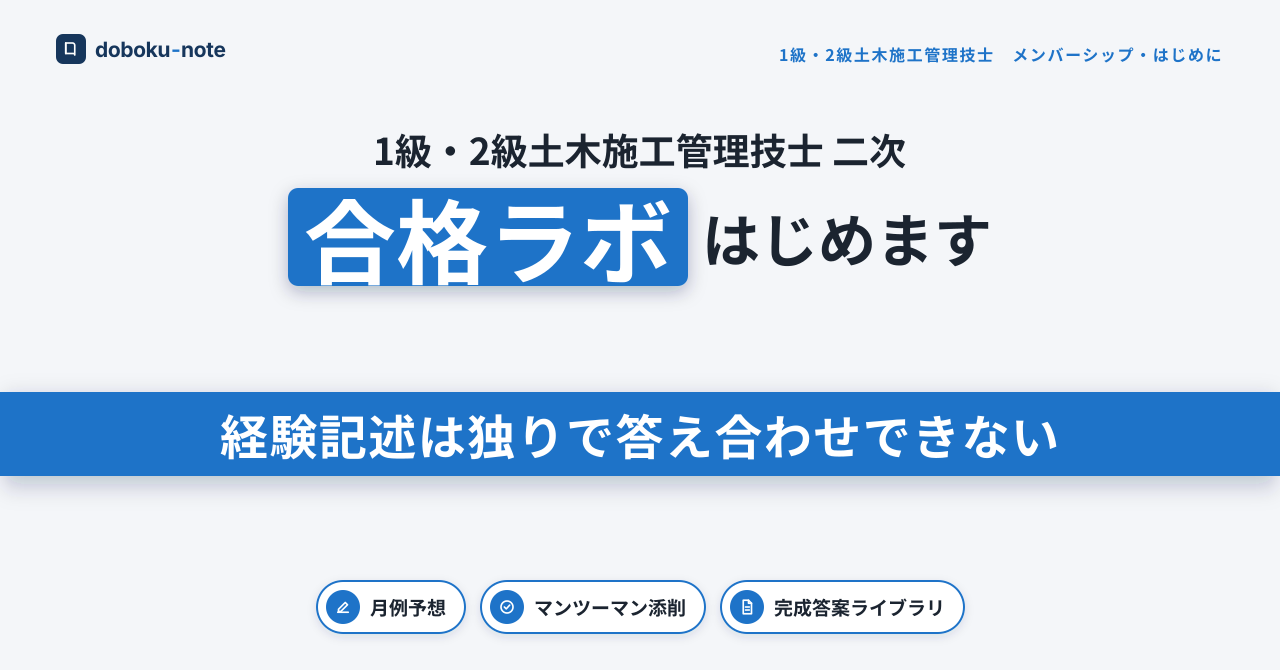
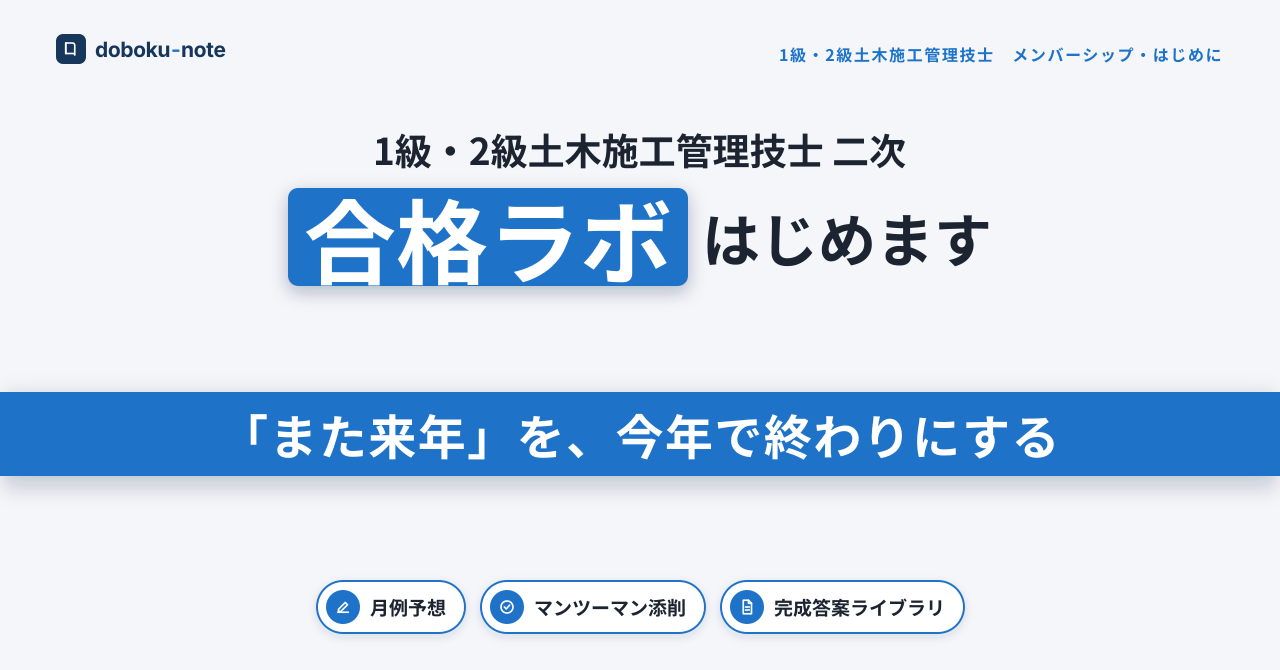
feat(note): 合格ラボ はじめに記事を強化（受験料/再受験アンカー＋競合差別化）
薄い一般論版を、webリサーチ(受験料¥12,000・二次年1回・1級合格率4-5割・
競合は単発添削/代筆が主流)を踏まえ再構成。訴求軸を「もう一度、受験料と1年を
払いたくない人へ」に。代筆しない=あなたの答案を合格水準へ、で差別化。
カバーbannerも「また来年を今年で終わりにする」へ。1662字。

Changed region(s): [[0.1562, 0.597, 0.8438, 0.6866]]

diff --git a/docs/note/1級・2級土木/メンバーシップ/はじめに-合格ラボ/article.md b/docs/note/1級・2級土木/メンバーシップ/はじめに-合格ラボ/article.md
@@ -10,54 +10,59 @@ cover:
   leadIn: "1級・2級土木施工管理技士 二次"
   hi: "合格ラボ"
   hiSuffix: "はじめます"
-  banner: "経験記述は独りで答え合わせできない"
+  banner: "「また来年」を、今年で終わりにする"
   meta: "メンバーシップ・はじめに"
   chips:
     - { icon: edit, text: "月例予想" }
     - { icon: check, text: "マンツーマン添削" }
     - { icon: doc, text: "完成答案ライブラリ" }
 ---
-# 「土木セコカン合格ラボ」をはじめます｜経験記述は"独りで答え合わせできない"試験だから
+# 「土木セコカン合格ラボ」をはじめます｜もう一度、受験料と1年を払いたくないあなたへ
 
 はじめまして。「架（かける）」と申します。
 
-地方自治体の土木職（発注者）として、道路や河川など公共インフラの計画・設計・発注・工事監督を横断的に担い、退職しました。在職中から、1級土木施工管理技士や技術士（建設部門・総合技術監理部門）などを取得しています。
+地方自治体の土木職（発注者）として、道路や河川など公共インフラの計画・設計・発注・工事監督を横断的に担い、退職しました。在職中に、1級土木施工管理技士や技術士（建設部門・総合技術監理部門）などを取得しています。
 
-この note で、1級・2級土木施工管理技士の受験者に向けた会員制ラボ **「土木セコカン合格ラボ」** をはじめます。
+この note で、1級・2級土木施工管理技士の受験者に向けた会員制ラボ **「土木セコカン合格ラボ」** をはじめます。なぜはじめるのか、どんな場にしたいのかを、少しだけお話しさせてください。
 
-この記事では、なぜはじめるのか、どんな場にしたいのかをお話しさせてください。
+## 「経験記述で落ちる」ということ
 
-## なぜ「合格ラボ」なのか
+第二次検定は、年に1回しかありません。1級なら次は令和8年10月4日。そこで経験記述（問題1）を落とせば、次のチャンスは丸1年先です。
 
-施工経験記述（第2次検定 問題1）は、少し特殊な試験です。
+再受験には、受験手数料がまた12,000円かかります。けれど本当に痛いのは、お金よりも「もう1年」のほう。同じ不安を抱えて勉強をやり直し、資格手当も、昇進も、現場での立場も、1年先送りになります。
 
-過去問の模範解答を読んでも、いざ自分の現場で書くと「これで受かるのか」が自分では判定できない。択一のように正解と照合できないからです。
+1級の合格率は、ここ数年おおむね4〜5割。裏を返せば、**半数近くの人が「また来年」を経験している**ということです。
 
-誰かに見てもらわないと、独学では手応えがつかめない——ここが経験記述の最大の壁です。
+## なぜ独学だと、ここで詰まるのか
 
-私は発注者として、たくさんの技術者が書いた書類を「評価する側」で見てきました。どこで加点され、どこで減点されるか。その **採点者視点** を、これから受験に向かうあなたへ架け渡したい。
+学科試験は、正解と照合すれば答え合わせができます。でも経験記述は、模範解答を読んでも「自分のこの答案で受かるのか」を、**自分一人では判定できない**。
 
-それが、このラボをはじめる理由です。
+合格者も指導者も口を揃えて言うのは、「経験記述こそ、客観的な添削が要る」ということ。書けた"つもり"と、採点者に伝わる答案のあいだには、いつも溝があります。
+
+私は発注者として、技術者が書いた書類を「評価する側」で数多く見てきました。どこで加点され、どこで減点されるか。その **採点者視点** を、あなたの答案に架け渡したい——それが、このラボをはじめる理由です。
+
+## 「代筆」ではなく、「あなたの答案を合格水準へ」
+
+世の中には、経験記述を代わりに書く"代行"サービスもあります。でも、それはこのラボの方針ではありません。
+
+**書くのは、あなた自身です。** 私はその答案を、採点者の目で合格水準まで引き上げます。自分の現場・自分の言葉で仕上げた答案は、試験だけでなく、面接でも実務でも、一生あなたの武器になるからです。
 
 ## どんな場にしたいか
 
-「読むだけ」で終わらせず、手を動かして合格に近づく場にします。
+一度きりの添削で終わらせず、試験本番まで伴走する場にします。
 
-毎月、学科記述と経験記述の予想問題を配信します。手を動かし、実戦感覚を養うためです。
+- **月例の予想問題**：学科記述・経験記述を毎月配信。読むだけでなく、手を動かして実戦感覚を養う。
+- **完成答案ライブラリ 読み放題**：自分の現場に近い工種を選び、5管理（品質・工程・安全・施工計画・環境）の書き方をいつでも確認できる。
+- **毎週マンツーマン添削**（添削つきプラン）：あなたの答案を毎週1本、NG→OK の赤入れと採点者視点のフィードバックで仕上げる。
 
-施工経験記述の完成答案ライブラリは、会員なら読み放題。自分の現場に近い工種を選び、5管理（品質・工程・安全・施工計画・環境）の書き方をいつでも確認できます。
-
-そして添削つきプランでは、あなたの答案を毎週1本マンツーマンで添削します。NG→OK の赤入れと、採点者視点のフィードバックつきで。
-
-一人で抱え込まず、試験本番まで一緒に走る。そんな伴走の場にしたいと考えています。
+一人で抱え込まず、本番まで一緒に走る。そんな伴走の場にしたいと考えています。
 
 ## 2つのプラン
 
-**通年プラン**は、完成答案ライブラリ読み放題＋月例予想配信。一次・二次を通年で対策できます。
+- **通年プラン**：完成答案ライブラリ読み放題＋月例予想配信。一次・二次を通年で。
+- **添削つきプラン**：通年の全内容＋毎週1本マンツーマン添削（受験シーズン限定・定員制）。
 
-**添削つきプラン**は、通年の全内容に加えて、あなたの経験記述を毎週1本マンツーマン添削（受験シーズン限定・定員制）。
-
-くわしい内容と価格は、各プランのページでご確認ください。
+会費は、「もう一度の受験料」と「失う1年」に比べれば——という水準にしています。くわしい内容と価格は、各プランのページでご確認ください。
 
 ## まず試したい方へ
 
@@ -65,6 +70,6 @@ cover:
 
 https://doboku-note.com/tools/keiken-charcount
 
-最短ルートで一発合格を——その一歩を、ここから一緒に踏み出しましょう。
+「また来年」を、今年で終わりにする。その一歩を、ここから一緒に踏み出しましょう。
 
 ※本ラボは合格を保証するものではありません。合格に向けた学習の伴走を目的としています。
